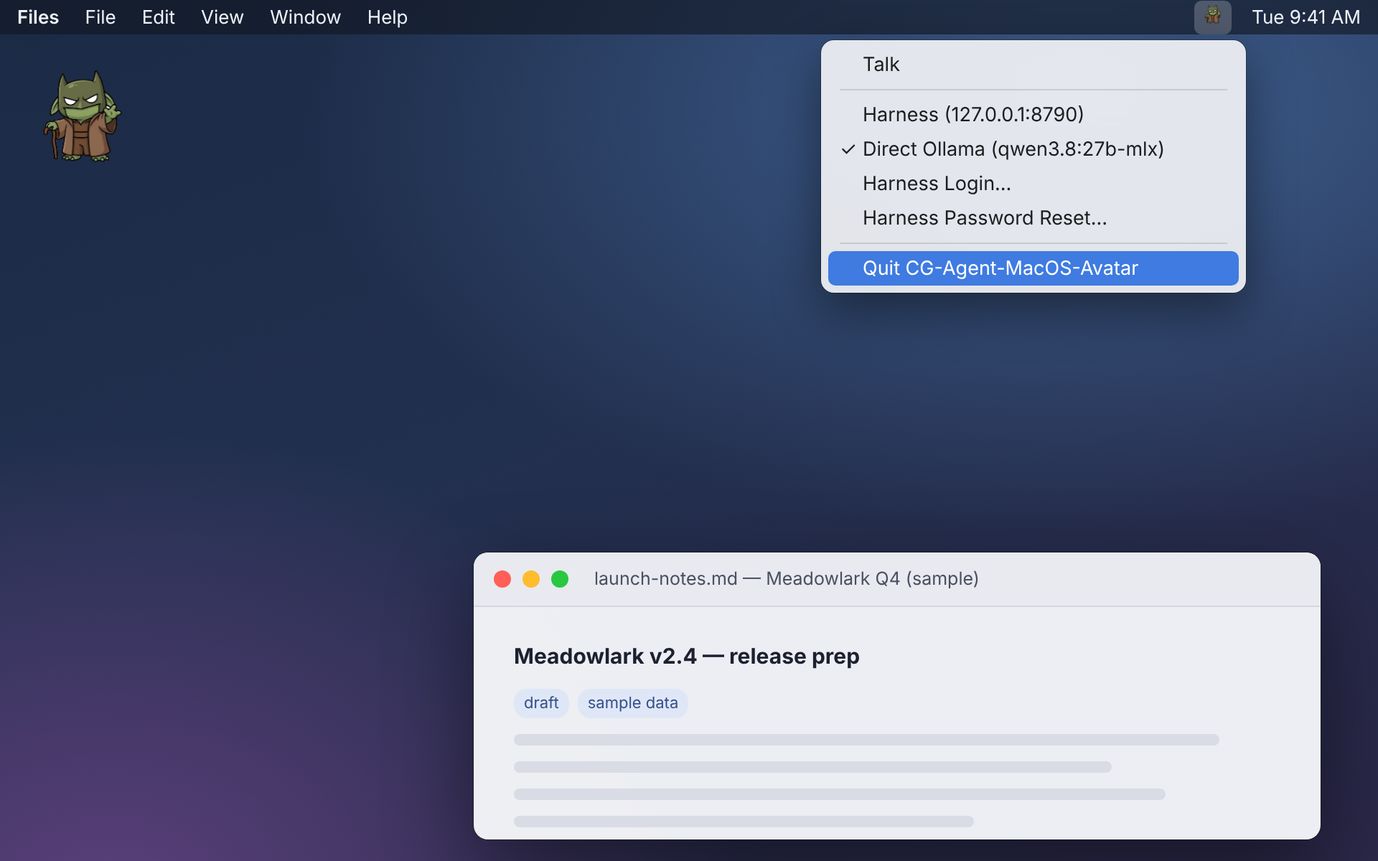
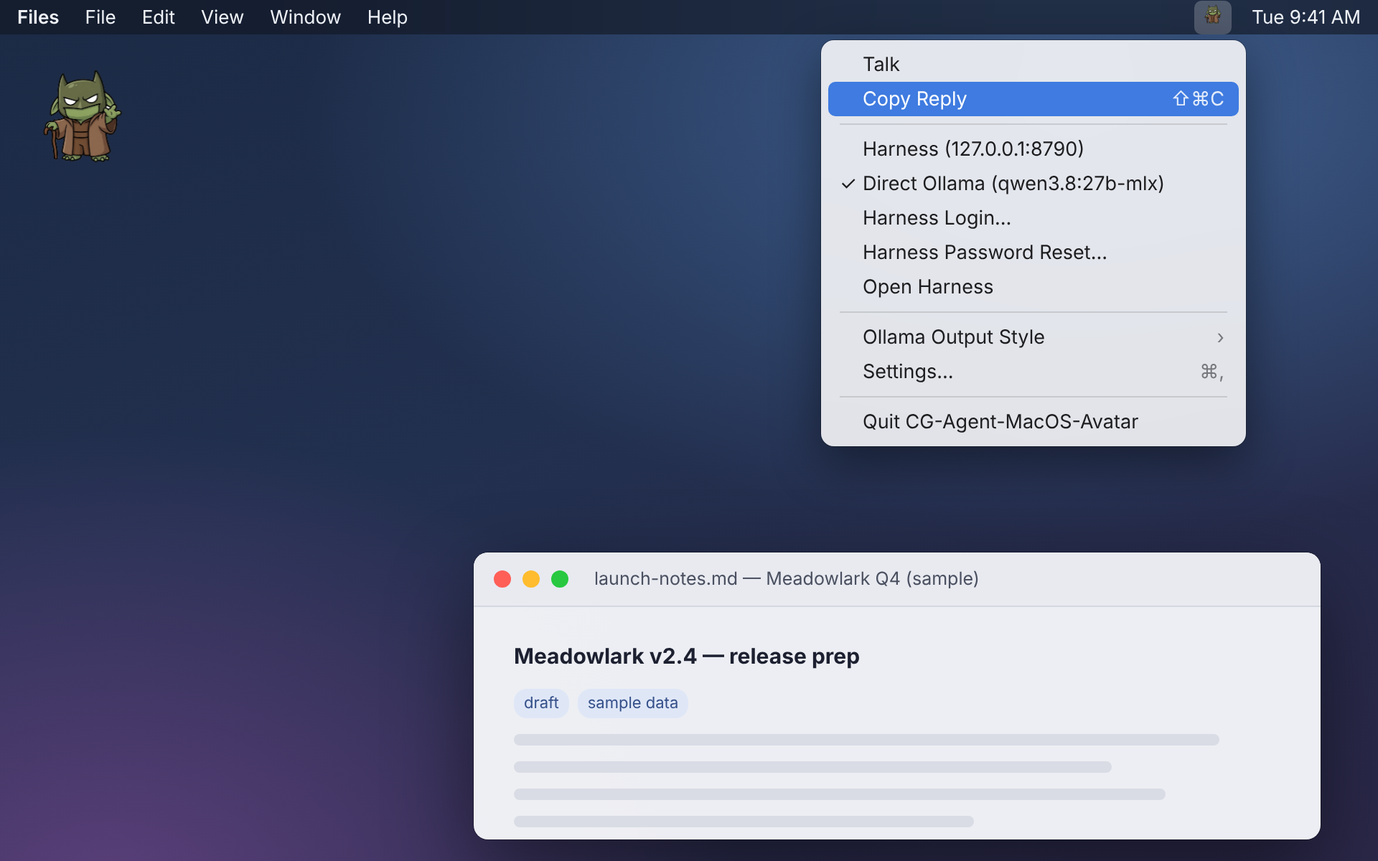
feat: Copy Reply (⇧⌘C) copies the whole sanitized answer
The expanded pane stops at 8,000 characters, so a long answer could not be
retrieved at all, and a short one took See More, select, ⌘C. Copy Reply in
the status menu (and ⇧⌘C in the Edit menu while chat is active) puts the
finished answer on the pasteboard in full.

- display::copyable_reply (portable, unit-tested): offered only while the
  bubble shows a finished answer, never while a turn is pending or after a
  status note replaced it; sanitized like the view (ANSI/OSC, C0/C1, bidi)
  but uncapped, keeping tabs and newlines.
- app.rs: a last_answer slot written beside last_reply at the two answer
  sites; NSMenuItemValidation disables the item when there is nothing to
  copy; the write resets the pasteboard current-host-only so Universal
  Clipboard does not sync it. The pasteboard is never read.
- source_contracts: one write path, host-only, sanitized, no reads.
- SECURITY.md row and Darwin note; README, CONTROLS, AGENTS rewritten in
  place; menu illustration re-rendered to the real menu order.

app.rs was type-checked and Clippy-clean for aarch64-apple-darwin from
Linux (cargo check/clippy --target, no link); not run on macOS.

Claude-Session: https://claude.ai/code/session_016Cu6EACNrqPVGaVnAkp7cD

Changed region(s): [[0.5938, 0.0925, 0.9062, 0.555]]

diff --git a/screenshots/scenes.html b/screenshots/scenes.html
@@ -80,6 +80,8 @@
   .menu .it { height: 24px; line-height: 24px; padding: 0 10px 0 24px; border-radius: 5px; position: relative; }
   .menu .it.hl { background: #3f7be0; color: #fff; }
   .menu .it.chk::before { content: "\2713"; position: absolute; left: 8px; }
+  .menu .it .key { position: absolute; right: 10px; opacity: .55; }
+  .menu .it.hl .key { opacity: .85; }
   .menu hr { border: 0; border-top: 1px solid rgba(0, 0, 0, .12); margin: 5px 8px; }
   body.menu-scene .menu { display: block; }
 </style>
@@ -112,12 +114,16 @@
 </div>
 
 <div class="menu" id="menu">
-  <div class="it">Talk</div><hr>
+  <div class="it">Talk</div>
+  <div class="it hl">Copy Reply<span class="key">⇧⌘C</span></div><hr>
   <div class="it">Harness (127.0.0.1:8790)</div>
   <div class="it chk">Direct Ollama (qwen3.8:27b-mlx)</div>
   <div class="it">Harness Login…</div>
-  <div class="it">Harness Password Reset…</div><hr>
-  <div class="it hl">Quit CG-Agent-MacOS-Avatar</div>
+  <div class="it">Harness Password Reset…</div>
+  <div class="it">Open Harness</div><hr>
+  <div class="it">Ollama Output Style<span class="key">›</span></div>
+  <div class="it">Settings…<span class="key">⌘,</span></div><hr>
+  <div class="it">Quit CG-Agent-MacOS-Avatar</div>
 </div>
 
 <div class="panel" id="panel"></div>

diff --git a/src/app.rs b/src/app.rs
@@ -15,10 +15,11 @@ use objc2_app_kit::{
     NSAppearanceCustomization, NSAppearanceNameAqua, NSAppearanceNameDarkAqua, NSApplication,
     NSApplicationActivationPolicy, NSApplicationDelegate, NSBackingStoreType, NSBezelStyle,
     NSButton, NSColor, NSCompositingOperation, NSControlStateValueOff, NSControlStateValueOn,
-    NSEvent, NSFont, NSImage, NSMenu, NSMenuItem, NSNormalWindowLevel, NSPanel, NSPopUpButton,
-    NSScreen, NSScrollView, NSSecureTextField, NSSquareStatusItemLength, NSStatusBar, NSStatusItem,
-    NSStatusWindowLevel, NSTextField, NSTextView, NSView, NSWindow, NSWindowCollectionBehavior,
-    NSWindowStyleMask, NSWorkspace,
+    NSEvent, NSEventModifierFlags, NSFont, NSImage, NSMenu, NSMenuItem, NSMenuItemValidation,
+    NSNormalWindowLevel, NSPanel, NSPasteboard, NSPasteboardContentsOptions,
+    NSPasteboardTypeString, NSPopUpButton, NSScreen, NSScrollView, NSSecureTextField,
+    NSSquareStatusItemLength, NSStatusBar, NSStatusItem, NSStatusWindowLevel, NSTextField,
+    NSTextView, NSView, NSWindow, NSWindowCollectionBehavior, NSWindowStyleMask, NSWorkspace,
 };
 use objc2_foundation::{
     ns_string, MainThreadMarker, NSData, NSNotification, NSObject, NSObjectProtocol, NSPoint,
@@ -51,6 +52,11 @@ const MOOD_EVERY: Duration = Duration::from_millis(250);
 struct Shared {
     mood: Mutex<Mood>,
     last_reply: Mutex<String>,
+    /// The latest finished model answer, exactly as written to `last_reply`.
+    /// **Copy Reply** is offered only while the two match, so any status
+    /// note that later replaces the answer turns it off without every writer
+    /// of `last_reply` having to clear this.
+    last_answer: Mutex<String>,
     pending: Mutex<Option<PendingChat>>,
     pending_login: Mutex<Option<(u64, String, String)>>,
     pending_password_change: Mutex<Option<(u64, String, String)>>,
@@ -278,6 +284,15 @@ define_class!(
 
     unsafe impl NSObjectProtocol for Delegate {}
 
+    unsafe impl NSMenuItemValidation for Delegate {
+        // AppKit asks before showing a menu or running a key equivalent.
+        // Every other Delegate item stays enabled, as before.
+        #[unsafe(method(validateMenuItem:))]
+        fn validate_menu_item(&self, item: &NSMenuItem) -> bool {
+            item.action() != Some(sel!(copyReply:)) || self.copyable_reply().is_some()
+        }
+    }
+
     unsafe impl NSApplicationDelegate for Delegate {
         #[unsafe(method(applicationDidFinishLaunching:))]
         fn did_finish_launching(&self, _n: &NSNotification) {
@@ -296,6 +311,11 @@ define_class!(
         #[unsafe(method(talk:))]
         fn talk_action(&self, _sender: Option<&AnyObject>) {
             self.open_talk();
+        }
+
+        #[unsafe(method(copyReply:))]
+        fn copy_reply_action(&self, _sender: Option<&AnyObject>) {
+            self.copy_reply();
         }
 
         #[unsafe(method(useHarness:))]
@@ -599,6 +619,42 @@ impl Delegate {
         }
     }
 
+    /// **Copy Reply** (⇧⌘C), for both the status menu and the Edit menu.
+    fn copy_reply_item(mtm: MainThreadMarker) -> Retained<NSMenuItem> {
+        let item = Self::menu_item(mtm, ns_string!("Copy Reply"), sel!(copyReply:));
+        item.setKeyEquivalent(ns_string!("c"));
+        item.setKeyEquivalentModifierMask(
+            NSEventModifierFlags::Command | NSEventModifierFlags::Shift,
+        );
+        item.setToolTip(Some(ns_string!(
+            "Copy the whole reply as plain text, without hidden control characters"
+        )));
+        item
+    }
+
+    /// The finished answer on screen, sanitized and uncapped, if there is one.
+    fn copyable_reply(&self) -> Option<String> {
+        let shared = &self.ivars().shared;
+        let shown = shared.last_reply.lock().unwrap();
+        let answer = shared.last_answer.lock().unwrap();
+        display::copyable_reply(&shown, &answer, shared.in_flight.load(Ordering::SeqCst))
+    }
+
+    /// Writes the answer to the general pasteboard as plain text, marked
+    /// current-host-only so Universal Clipboard does not sync it to the
+    /// user's other devices. Avatar only writes, on this explicit command;
+    /// it never reads the pasteboard.
+    fn copy_reply(&self) {
+        let Some(text) = self.copyable_reply() else {
+            return;
+        };
+        let pasteboard = NSPasteboard::generalPasteboard();
+        pasteboard.prepareForNewContentsWithOptions(NSPasteboardContentsOptions::CurrentHostOnly);
+        let _ = pasteboard.setString_forType(&NSString::from_str(&text), unsafe {
+            NSPasteboardTypeString
+        });
+    }
+
     fn setup(&self) {
         let active = theme::active();
         let theme::Metrics {
@@ -626,6 +682,7 @@ impl Delegate {
 
         let menu = NSMenu::new(mtm);
         let talk = Self::menu_item(mtm, ns_string!("Talk"), sel!(talk:));
+        let copy_reply = Self::copy_reply_item(mtm);
         let harness = Self::menu_item(
             mtm,
             ns_string!("Harness (127.0.0.1:8790)"),
@@ -647,6 +704,7 @@ impl Delegate {
         unsafe {
             open_harness.setTarget(Some(self.as_ref()));
             talk.setTarget(Some(self.as_ref()));
+            copy_reply.setTarget(Some(self.as_ref()));
             harness.setTarget(Some(self.as_ref()));
             ollama.setTarget(Some(self.as_ref()));
             login.setTarget(Some(self.as_ref()));
@@ -656,6 +714,7 @@ impl Delegate {
         harness.setState(NSControlStateValueOff);
         ollama.setState(NSControlStateValueOn);
         menu.addItem(&talk);
+        menu.addItem(&copy_reply);
         menu.addItem(&NSMenuItem::separatorItem(mtm));
         menu.addItem(&harness);
         menu.addItem(&ollama);
@@ -721,6 +780,16 @@ impl Delegate {
                 unsafe {
                     entry.setTarget(target);
                 }
+                submenu.addItem(&entry);
+            }
+            if title == "Edit" {
+                // Status-menu key equivalents never fire, so ⇧⌘C lives here
+                // too, where it works while the chat panel is key.
+                let entry = Self::copy_reply_item(mtm);
+                unsafe {
+                    entry.setTarget(Some(self.as_ref()));
+                }
+                submenu.addItem(&NSMenuItem::separatorItem(mtm));
                 submenu.addItem(&entry);
             }
             root.setSubmenu(Some(&submenu));
@@ -2079,6 +2148,7 @@ fn spawn_workers(shared: Arc<Shared>) {
                             }
                             match result {
                                 Ok(reply) => {
+                                    *shared.last_answer.lock().unwrap() = reply.clone();
                                     *shared.last_reply.lock().unwrap() = reply;
                                     talking_deadline = Some(Instant::now() + Duration::from_secs(8));
                                     shared.talking.store(true, Ordering::SeqCst);
@@ -2141,6 +2211,7 @@ fn spawn_workers(shared: Arc<Shared>) {
                                     if !reply.web_tools.is_empty() {
                                         text = display::with_web_tools_note(&text, reply.web_tools.len());
                                     }
+                                    *shared.last_answer.lock().unwrap() = text.clone();
                                     *shared.last_reply.lock().unwrap() = text;
                                     talking_deadline = Some(Instant::now() + Duration::from_secs(8));
                                     shared.talking.store(true, Ordering::SeqCst);
@@ -2198,6 +2269,7 @@ pub fn run() {
     let shared = Arc::new(Shared {
         mood: Mutex::new(Mood::Asleep),
         last_reply: Mutex::new(String::new()),
+        last_answer: Mutex::new(String::new()),
         pending: Mutex::new(None),
         pending_login: Mutex::new(None),
         pending_password_change: Mutex::new(None),

diff --git a/src/display.rs b/src/display.rs
@@ -11,6 +11,27 @@ pub fn expanded_text(raw: &str) -> String {
     sanitized_text(raw, MAX_EXPANDED_CHARS)
 }
 
+/// The text **Copy Reply** puts on the pasteboard, or `None` when there is
+/// nothing to copy.
+///
+/// `shown` is what the bubble holds now and `answer` is the latest finished
+/// model answer. They differ once a status note, error, or setup guidance
+/// replaces the answer, and a pending turn shows `…thinking` (or a partial
+/// stream), so copying is offered only while the bubble shows a finished
+/// answer. The copy is complete: the 8,000-character view cap does not apply,
+/// because the reply is already bounded by the 1 MiB response cap. It is
+/// sanitized like the view, so a paste into a terminal or editor never carries
+/// escape sequences, bidi overrides, or other controls the bubble hid. Tabs
+/// and newlines survive, which keeps code indentation intact.
+pub fn copyable_reply(shown: &str, answer: &str, in_flight: bool) -> Option<String> {
+    if in_flight || answer.is_empty() || shown != answer {
+        return None;
+    }
+    let text = sanitized_text(answer, usize::MAX);
+    let text = text.trim();
+    (!text.is_empty()).then(|| text.to_string())
+}
+
 /// Backend-supplied text for a single-line label or tooltip: sanitized like a
 /// reply, with line breaks and tabs folded to spaces, clipped to `max_chars`
 /// (plus `…` when something was dropped).
@@ -397,5 +418,45 @@ mod tests {
                 assert_eq!(bubble_text(&full), expected, "{hostile:?}");
             }
         }
+    }
+
+    #[test]
+    fn copy_reply_is_the_whole_answer_not_the_view_cap() {
+        let long = "y".repeat(MAX_EXPANDED_CHARS * 3);
+        let copied = copyable_reply(&long, &long, false).expect("copyable");
+        assert_eq!(copied.chars().count(), MAX_EXPANDED_CHARS * 3);
+        assert!(!copied.ends_with('…'));
+    }
+
+    #[test]
+    fn copy_reply_strips_what_a_terminal_or_editor_would_act_on() {
+        // ANSI color, an OSC title/hyperlink, a Trojan Source bidi override,
+        // C1 CSI, BEL, and NUL are dropped; indentation and line breaks stay.
+        let raw = "fn main() {\n\t\u{1b}[31mred\u{1b}[0m\u{1b}]8;;https://x.test\u{7}link\u{1b}]8;;\u{7}\n\t// \u{202e}evil\u{2066}\u{9b}\u{7}\0\n}\n";
+        let copied = copyable_reply(raw, raw, false).expect("copyable");
+        assert_eq!(copied, "fn main() {\n\tredlink\n\t// evil\n}");
+    }
+
+    #[test]
+    fn copy_reply_is_offered_only_for_a_finished_answer_on_screen() {
+        assert_eq!(copyable_reply("hi", "hi", false).as_deref(), Some("hi"));
+        // Pending turn: the bubble shows …thinking or a partial stream.
+        assert_eq!(copyable_reply("hi", "hi", true), None);
+        // A status note, error, or guidance replaced the answer.
+        assert_eq!(copyable_reply("ollama asleep", "hi", false), None);
+        // No answer yet, or nothing printable in it.
+        assert_eq!(copyable_reply("", "", false), None);
+        assert_eq!(copyable_reply("harness asleep", "", false), None);
+        let blank = " \n\t\u{1b}[0m\u{202e} ";
+        assert_eq!(copyable_reply(blank, blank, false), None);
+    }
+
+    #[test]
+    fn copy_reply_keeps_the_web_footer_that_says_what_left_the_mac() {
+        let shown = with_lookup_note("Rust 1.90 shipped.", "searched \"rust\"");
+        assert_eq!(
+            copyable_reply(&shown, &shown, false).as_deref(),
+            Some("Rust 1.90 shipped. [via web: searched \"rust\"]")
+        );
     }
 }

diff --git a/tests/source_contracts.rs b/tests/source_contracts.rs
@@ -146,3 +146,31 @@ fn ollama_web_lookups_stay_on_the_loopback_daemon() {
     assert_eq!(parse("what happened in the news today?"), Intent::Chat);
     assert_eq!(parse("tell me about ollama.com"), Intent::Chat);
 }
+
+#[test]
+fn pasteboard_is_write_only_host_only_and_sanitized() {
+    let src = include_str!("../src/app.rs");
+    let prod = src.split("#[cfg(test)]").next().expect("prod");
+    // One write path: the explicit Copy Reply command.
+    assert_eq!(prod.matches("NSPasteboard::generalPasteboard()").count(), 1);
+    assert!(prod.contains("NSPasteboardContentsOptions::CurrentHostOnly"));
+    assert!(!prod.contains("clearContents"), "use the host-only reset");
+    // Avatar never reads what other apps copied.
+    for read in [
+        "stringForType",
+        "dataForType",
+        "propertyListForType",
+        "readObjectsForClasses",
+        "pasteboardItems",
+        "availableTypeFromArray",
+    ] {
+        assert!(!prod.contains(read), "app.rs reads the pasteboard: {read}");
+    }
+    // What is copied goes through the display sanitizer first.
+    assert!(prod.contains("display::copyable_reply("));
+    assert_eq!(
+        cg_agent::display::copyable_reply("a\u{1b}[2Jb\u{202e}", "a\u{1b}[2Jb\u{202e}", false)
+            .as_deref(),
+        Some("ab")
+    );
+}

diff --git a/SECURITY.md b/SECURITY.md
@@ -18,6 +18,7 @@ network, fail closed, no secrets in this tree.
 | Secrets | Info disclosure | Never reads `~/.CGagentHarness/.env`. No API key prompt. `AUTH_REQUIRED` directs the user to Harness Login; legacy API-key errors direct them to the console. | Operator may still type secrets into chat; that is harness policy. |
 | Output-style preferences | Info disclosure / instruction injection | `NSUserDefaults` stores only style text and window preferences, not credentials or chat history. Custom text is limited to 2,048 characters, rejects controls except tabs/newlines, and is validated before any lookup or chat request. It extends the bundled system prompt only for Direct Ollama. Web intent is parsed from the current user message alone; styles add no routes or tools. | Preferences are readable by the local user. Do not put secrets in custom instructions. Style adherence is model-dependent; custom instructions can influence reply content. |
 | Model text | XSS / URL open (CWE-1022) | `NSTextField` preview and `NSTextView` scroll pane are plain strings, not HTML. `display` strips C0/ANSI and bidi overrides/isolates (Trojan Source); preview caps at 400 chars and expanded text at 8,000. No `open` of URLs. | A future WebView would need a new review. |
+| Copied reply | Terminal or editor injection on paste; clipboard disclosure | **Copy Reply** writes only on that explicit command, only a finished answer still on screen, through `display::copyable_reply`: the same C0/C1/ANSI/OSC and bidi stripping as the view, without the 8,000-char cap (the reply is already under the 1 MiB response cap). The pasteboard is reset with `NSPasteboardContentsCurrentHostOnly`, so Universal Clipboard does not carry it to other devices. Avatar never reads the pasteboard. `tests/source_contracts.rs::pasteboard_is_write_only_host_only_and_sanitized` locks the single write path, the host-only option, and the absence of reads. | Any local process can read the clipboard once the user copies. Sanitizing removes controls, not content: a copied shell command is still whatever the model wrote, so read it before running it. |
 | Backend response | Memory exhaustion (CWE-400) | Every response stream is capped at 1 MiB before text or JSON parsing; `Content-Length` is only an early rejection. A streamed Harness reply (`Accept: text/event-stream` on `POST /api/chat`) is read line by line under the same cap for the whole stream, and under one 12-minute deadline for the whole turn; a stream that ends, stalls, or breaks before its `done` event is an error, never a partial answer. | A local backend can still spend the full request timeout sending the capped prefix. A streamed reply costs more bytes on the wire than the same reply sent whole (each text piece is wrapped in an event and the full reply is repeated at the end), so a very long reply reaches the cap sooner. |
 | Home files | Planted `harness.json` | Regular file only (no symlink), ≤64 KiB, not world-writable, port 1024–65535. | Owner-writable plant still works (same uid). |
 | Harness TLS | MITM on loopback / spoofed harness | HTTPS client pins exactly the harness's own leaf certificate read from its home (only the `CERTIFICATE` blocks of `tls/server.pem`; Harness also stores its private key there, which is discarded at read, same hardening as `harness.json`: no symlink, ≤64 KiB, not world-writable); `tls_certs_only` — the root store holds only that certificate; no built-in or platform CA is trusted. Never `danger_accept_invalid_certs`. A mismatch (rotation or spoof) surfaces as a distinct `CertMismatch` error, clears the confirmed endpoint, and blocks HTTP discovery until pinned HTTPS succeeds. A home with a pinned certificate never downgrades: discovery probes plain HTTP only for a home with no `tls/server.pem`, so a local process squatting on the port while the real harness is down receives no chat, CSRF fetch, or login. `tests/tls_pin.rs` proves the pin with real loopback TLS handshakes and that a TLS home never reaches a plain listener. | Owner-writable plant of `tls/server.pem` still works (same uid) — same residual class as `harness.json`. Deleting `tls/server.pem` makes the home look like a legacy HTTP home (same uid, same class). A pin that is present but unreadable or malformed (mid-rotation, bad permissions) never does: that poll forbids HTTP, as does any poll after a certificate rejection. A stale `tls/server.pem` in a home switched to plain HTTP never connects until it is removed. |
@@ -47,6 +48,7 @@ Default chat backend. Same fail-closed HTTP rules as harness chat: `127.0.0.1:11
 - `LSUIElement`: menu extra, no Dock. No Accessibility / Mic / Camera entitlements.
 - `NSAllowsLocalNetworking` only. Not `NSAllowsArbitraryLoads`.
 - Text input uses the AppKit field editor (in-process). No CGEvent tap.
+- The general pasteboard is written only by **Copy Reply** (current-host-only) and never read.
 - Ad-hoc signature. Hardened Runtime / App Sandbox wait for notarize.
 
 ## Explicit non-goals

diff --git a/README.md b/README.md
@@ -11,6 +11,9 @@ resting, thinking, talking, or needs attention.
   **Send**, and close it without losing your draft or the reply.
 - **Room to read.** Padded replies, larger text, and a separate toolbar keep the
   conversation clear. **See More** opens a scrollable plain-text pane.
+- **Take the answer with you.** **Copy Reply** (⇧⌘C) copies the whole reply as
+  plain text, even past the 8,000-character view, with hidden control
+  characters removed so a paste into a terminal is exactly what you read.
 - **Pick the engine.** Start with a local Ollama (the default) or connect to
   [CG-Agent-Harness](https://github.com/cgfixit/CG-Agent-Harness).
 - **Make it fit.** Choose Default, Concise, Detailed, or Custom output from the
@@ -111,7 +114,7 @@ Illustrations with synthetic sample data, rendered from the app's theme tokens.
 | | |
 |---|---|
 | ![Thinking state](screenshots/thinking.png) **Thinking.** The panel names the backend, Send waits, and the draft field stays free. | ![Expanded reply](screenshots/expanded.png) **See More.** A long reply opens in a scrollable plain-text pane. |
-| ![Fable Protocol theme](screenshots/fable.png) **Fable Protocol theme** (`CG_AGENT_THEME=fable-protocol`). | ![Menu-bar menu](screenshots/menu.png) **Menu-bar menu.** Pick Direct Ollama or Harness; Harness login lives here. |
+| ![Fable Protocol theme](screenshots/fable.png) **Fable Protocol theme** (`CG_AGENT_THEME=fable-protocol`). | ![Menu-bar menu](screenshots/menu.png) **Menu-bar menu.** Copy Reply, the backend choice, Harness login, and Settings live here. |
 | ![Oversized draft notice](screenshots/notice.png) **Oversized draft.** A clear notice instead of a silent no-op; the draft stays put. | |
 
 ## Talk, read, carry on
@@ -132,6 +135,15 @@ overlay space passes clicks through to the application underneath.
 Both backends share the renderer: previews show up to 400 characters and expanded
 replies up to 8,000, with an ellipsis at the limit. Input accepts 32,768 characters
 after trimming, which is a character limit, not a model-context guarantee.
+
+**Copy Reply** in the menu-bar menu, or **⇧⌘C** while the chat panel is active,
+puts the finished reply on the clipboard: all of it, not just the 8,000 characters
+the pane shows, and stripped of the same terminal escapes, bidi overrides, and
+other invisible controls the bubble hides. Tabs and line breaks stay, so code
+keeps its indentation, and any `[via web: …]` note stays with the text. It is
+unavailable while a reply is pending or when the bubble shows a status message
+instead of an answer. The copy stays on this Mac (Universal Clipboard does not
+sync it), and Avatar never reads the clipboard.
 
 Classic pairs dark text with a translucent white surface. The optional Fable
 Protocol theme uses warm text on a dark surface and a calmer gait.

diff --git a/docs/CONTROLS.md b/docs/CONTROLS.md
@@ -5,6 +5,7 @@ Left-click the menu-bar icon (top toolbar). Typing does **not** require Harness 
 | Input | Action |
 |---|---|
 | **Talk** | Show the strip, focus the text field (works offline) |
+| **Copy Reply** in the menu / **⇧⌘C** while chat is active | Copy the whole finished reply as plain text: past the 8,000-character view, without escape sequences, bidi overrides, or other hidden controls; tabs, line breaks, and any `[via web: …]` note kept. Unavailable while a reply is pending or the bubble shows a status message. The copy is current-host-only, so Universal Clipboard does not send it to your other devices |
 | **Harness (127.0.0.1:8790)** | Optional. Launches or activates the installed `CG Agent Harness.app` by bundle identifier, then checks the configured port and desktop sidecar for a confirmed status response; HTTPS with a pinned certificate on fresh homes, plain HTTP only on legacy homes with no `tls/server.pem` |
 | **Direct Ollama (qwen3.8:27b-mlx)** | Default. Sends the bundled Soul prompt as a system message via `http://127.0.0.1:11434/v1/chat/completions` |
 | **Harness Login…** | Prompts for a harness account username and password (native secure text entry), then logs in for later Harness chats |
@@ -171,7 +172,7 @@ CG_AGENT_THEME=fable-protocol ./dist/CG-Agent-MacOS-Avatar.app/Contents/MacOS/cg
 | Bubble ends in `…` | The preview shows the first six wrapped lines (at most 400 characters) and collapses runs of blank lines. **See More** shows the whole reply. |
 | `harness error: …` | Harness returned an error Avatar has no specific message for; the text after the colon is the harness's own, clipped and sanitized. |
 | `Harness is finishing another reply…` | A previous chat turn is still running; wait a moment and send again. |
-| Long response appears cut off | Expand with See More, then scroll; the expanded display still has an 8,000-character limit. A reply that would fill it is trimmed (ending in `…`) so the `[via web …]` note or the offer line is never the part that is cut. The 400-character preview can still hide the note; See More shows it. |
+| Long response appears cut off | Expand with See More, then scroll; the expanded display still has an 8,000-character limit, and **Copy Reply** (⇧⌘C) copies the whole reply. A reply that would fill it is trimmed (ending in `…`) so the `[via web …]` note or the offer line is never the part that is cut. The 400-character preview can still hide the note; See More shows it. |
 
 For fresh native examples, see the [README screenshots](../README.md) and
 [capture provenance](screenshots/README.md). For build errors, see

diff --git a/AGENTS.md b/AGENTS.md
@@ -152,7 +152,9 @@ layer that can hold it.
   (or `fable`).
 - **`display.rs`**: treats model output as untrusted text. It strips C0/ANSI and
   bidi controls, and caps the bubble at 400 chars and the expanded view at 8,000.
-  It never renders HTML and never opens URLs.
+  It never renders HTML and never opens URLs. `copyable_reply` is the only text
+  **Copy Reply** writes to the pasteboard: the finished answer on screen,
+  sanitized the same way but uncapped.
 
 **Layer 4: AppKit (macOS only)**
 - **`app.rs`** (`#[cfg(target_os = "macos")]`): status item, menu, overlay, chat
@@ -190,7 +192,7 @@ style checks. Read the relevant one before touching networking, process spawning
 
 | File | Locks down |
 |---|---|
-| `tests/source_contracts.rs` | no agent routes or `loop` field in `client.rs`; no forwarding headers; no dotenv in `home.rs`; `FORBIDDEN` unreachable; discovery never scans or touches the focus socket; launch by bundle ID only; Ollama loopback, OpenAI-compatible only; web lookups only via the loopback daemon (no cloud host, key, or tools) |
+| `tests/source_contracts.rs` | no agent routes or `loop` field in `client.rs`; no forwarding headers; no dotenv in `home.rs`; `FORBIDDEN` unreachable; discovery never scans or touches the focus socket; launch by bundle ID only; Ollama loopback, OpenAI-compatible only; web lookups only via the loopback daemon (no cloud host, key, or tools); the pasteboard is written once, host-only, sanitized, and never read |
 | `tests/objections.rs` | SSRF baits rejected, CSRF injection shapes, session IDs shaped like paths, oversized bodies, token redaction in `Debug` |
 | `tests/lsof_argv.rs` | argv-only loopback `lsof`; Ollama and privileged ports skipped |
 | `tests/plist_contract.rs` | bundle identity key/value pairs, `LSUIElement` true (no Dock), ATS local networking true, macOS 13+ and Retina declarations |

diff --git a/screenshots/README.md b/screenshots/README.md
@@ -14,7 +14,7 @@ produced the replies.
 | `thinking.png` | `…thinking`, backend label shows `· Thinking…`, Send disabled |
 | `expanded.png` | **See Less** state with a long reply in the scroll pane |
 | `fable.png` | Fable Protocol theme |
-| `menu.png` | Menu-bar menu with Direct Ollama selected |
+| `menu.png` | Menu-bar menu with Direct Ollama selected and **Copy Reply** highlighted |
 | `notice.png` | Over-limit draft notice (the draft stays in the field) |
 
 They do not prove how the app renders on any macOS version. For real captures
